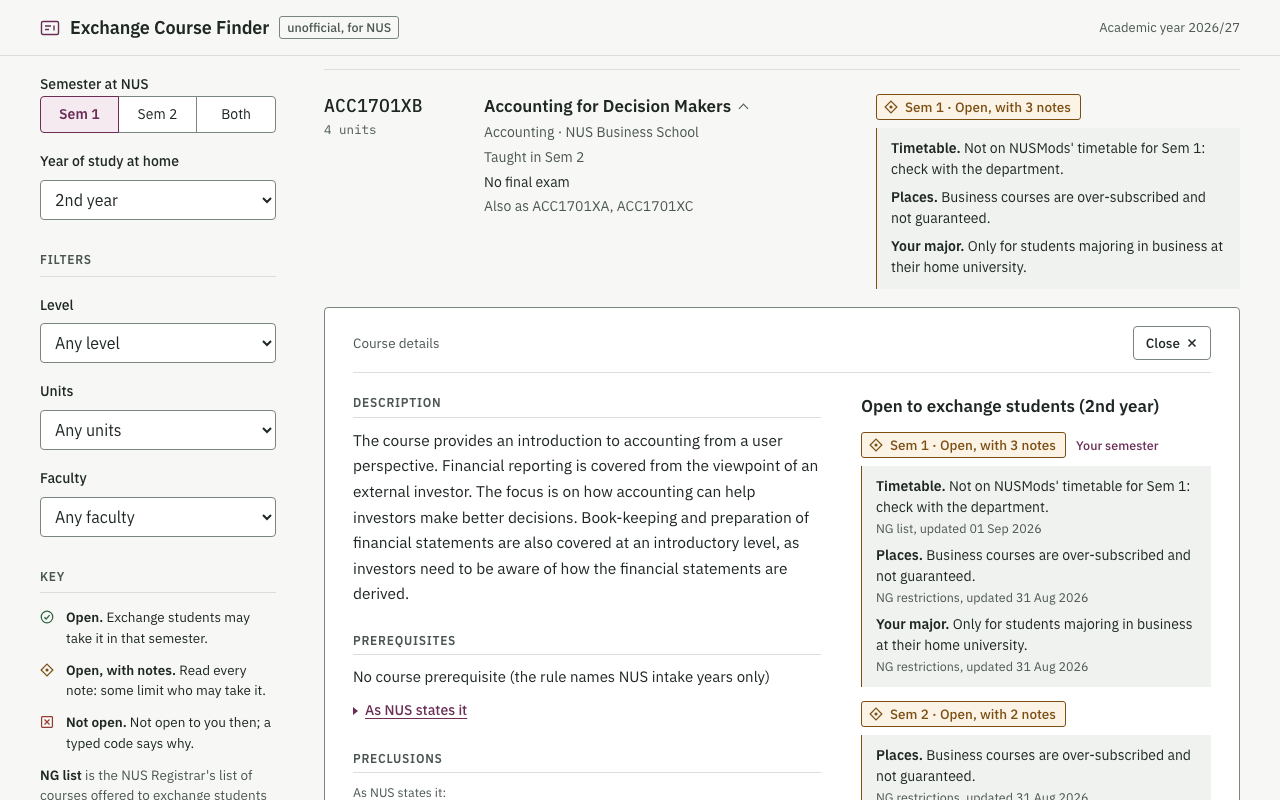
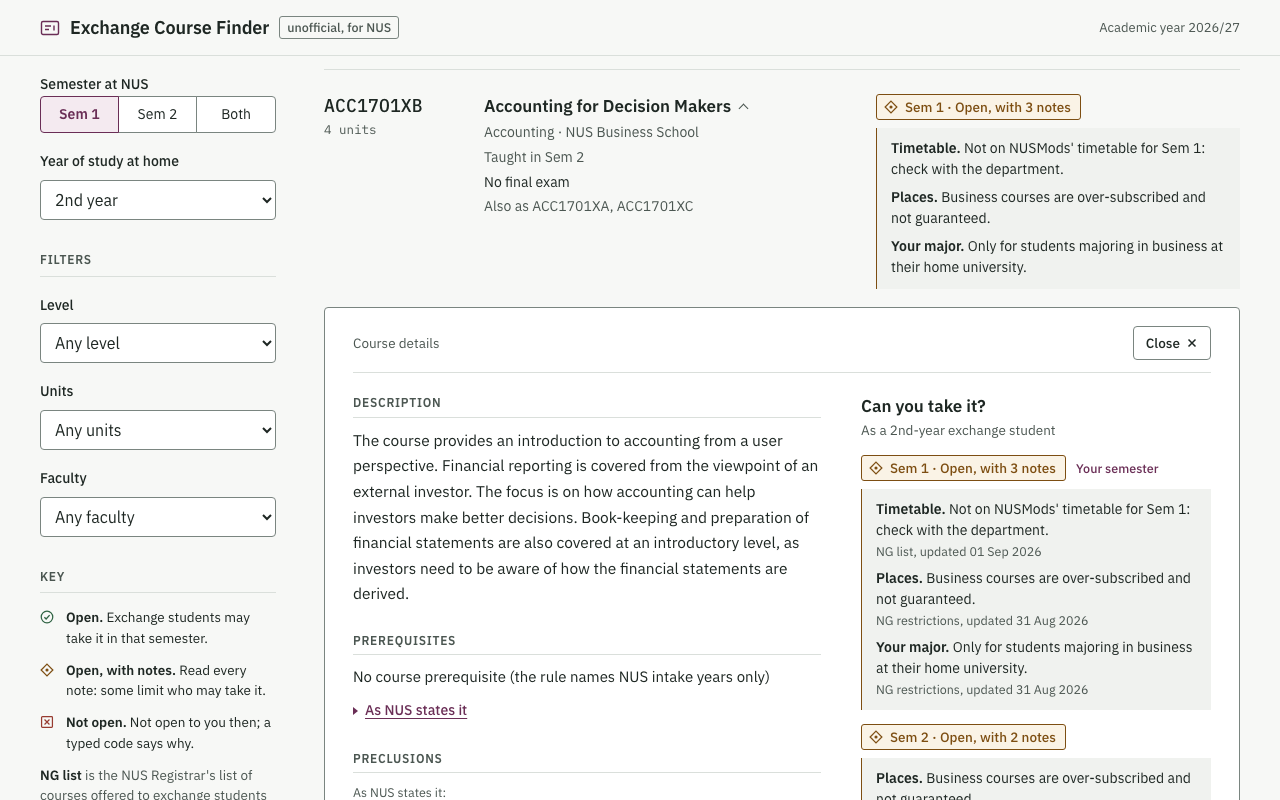
fix(ui): review fixes for direction D (Phase 5 5D)
- In exchange mode a no-results answer never offers removing the semester:
  only real filters count as the next step.
- The first screen goes to one column below 900px and its tiles wrap, so no
  width between a phone and a desktop scrolls sideways.
- Focus stays on a control when the one it was on goes away (a special
  term changed to Sem 1 in exchange mode; the filters dialog closed by
  widening the window).
- A link with any state never paints the first screen before the scripts
  run; the modules are preloaded.
- Options a link adds are labelled as the chips are ("Level 7000").
- The sheet asks "Can you take it?", and phone chips wrap from the left
  edge, as in the mockup.

Changed region(s): [[0.6562, 0.5, 0.9375, 1.0]]

diff --git a/test/ui/mobile.spec.js b/test/ui/mobile.spec.js
@@ -133,6 +133,60 @@ test('[V1] no results with filters on names the next step: remove a filter', asy
   await expect(page.getByRole('button', { name: 'Remove filter: Level 6000' })).toBeVisible();
 });
 
+test('[V1] in exchange mode the next step is never to drop the set-up: only real filters are offered', async ({ page }) => {
+  const empty = { query: 'basket weaving', count: 0, results: [], interpreted: {}, hiddenPins: [], notOffered: [] };
+  await page.route('**/search?**', (route) => route.fulfill({ json: { ...empty, filters: { sem: 1, ng: true, study: 'ug2' } } }));
+  await page.goto('/?q=basket+weaving&sem=1&ng=1&study=ug2');
+  await expect(page.locator('#status')).toHaveText('No courses match “basket weaving”.Try other words for the topic, or fewer of them.');
+  await page.unroute('**/search?**');
+  await page.route('**/search?**', (route) => route.fulfill({ json: { ...empty, filters: { sem: 1, level: 2, ng: true, study: 'ug2' } } }));
+  await page.goto('/?q=basket+weaving&sem=1&level=2&ng=1&study=ug2');
+  await expect(page.locator('#status')).toContainText('Remove a filter above to see more courses');
+});
+
+test('[V1] an option a link adds is labelled as the chips are: "Level 7000", "3 units"', async ({ page }) => {
+  await page.setViewportSize({ width: 1280, height: 800 });
+  await page.goto('/?q=design&level=7&credits=3');
+  await expect(page.locator('#level option:checked')).toHaveText('Level 7000');
+  await expect(page.locator('#credits option:checked')).toHaveText('3 units');
+  await expect(page.locator('#chips .chip')).toHaveText(['Level 7000', '3 units']);
+});
+
+test('no width between a phone and a desktop scrolls sideways: the first screen, results and an open detail', async ({ page }) => {
+  for (const width of [320, 390, 560, 641, 667, 700, 760, 900, 1040, 1100]) {
+    await page.setViewportSize({ width, height: 800 });
+    for (const path of ['/', '/?q=introductory+accounting&ng=1&study=ug2', '/?q=ACC1701XB&open=ACC1701XB', '/?q=ACC1701XB&sem=1&ng=1&study=ug2&open=ACC1701XB']) {
+      await page.goto(path);
+      if (path.includes('open=')) await expect(page.locator('#results .detail-close')).toBeVisible();
+      const over = await page.evaluate(() => document.documentElement.scrollWidth - window.innerWidth);
+      expect(over, `${width}px ${path}`).toBeLessThanOrEqual(0);
+    }
+  }
+});
+
+test('focus stays on a control when the one it was on goes away: a special term changed to Sem 1, and the dialog closed by widening', async ({ page }) => {
+  await page.goto('/?q=networks&sem=3&ng=1&study=ug2');
+  await page.getByRole('button', { name: /^Filters/ }).click();
+  await expect(page.locator('#sem')).toBeVisible();
+  await page.locator('#sem').selectOption('1');
+  await expect.poll(() => query(page)).toBe('q=networks&sem=1&ng=1&study=ug2');
+  await expect(page.locator('#sem')).toBeHidden();
+  await expect(page.getByRole('radio', { name: 'Sem 1', exact: true })).toBeFocused();
+  await page.locator('#study').focus();
+  await page.setViewportSize({ width: 1280, height: 800 });
+  await expect(page.getByRole('dialog')).toBeHidden();
+  await expect(page.locator('#study')).toBeFocused();
+});
+
+test('a link with any state never shows the first screen, even before the scripts run', async ({ page }) => {
+  await page.route('**/app.js', async (route) => { await new Promise((r) => setTimeout(r, 1500)); await route.continue(); });
+  await page.goto('/?q=introductory+accounting&sem=1&ng=1&study=ug2', { waitUntil: 'commit' });
+  await page.locator('#q').waitFor({ state: 'attached' });
+  await expect(page.locator('#setup')).toBeHidden();
+  await expect(page.locator('#results > li.card').first()).toBeVisible({ timeout: 10_000 });
+  await expect(page.locator('#setup')).toBeHidden();
+});
+
 test('at 1280 the rail is beside the results and there is no Filters button', async ({ page }) => {
   await page.setViewportSize({ width: 1280, height: 800 });
   await page.goto('/?q=networks&ng=1&study=ug2&sem=1');

diff --git a/public/styles.css b/public/styles.css
@@ -74,6 +74,9 @@
 h1, h2, h3, h4, b, strong { font-weight: 600; }
 * { box-sizing: border-box; }
 [hidden] { display: none !important; }
+html[data-view="results"] #setup { display: none; }
+#layout { display: none; }
+html[data-view="results"] #layout, .app[data-view="results"] #layout { display: grid; }
 html { -webkit-text-size-adjust: 100%; text-size-adjust: 100%; }
 body { margin: 0; background: var(--ground); color: var(--ink); font: 400 var(--t-body)/1.55 var(--f-sans); -webkit-font-smoothing: antialiased; }
 .app { min-height: 100vh; display: flex; flex-direction: column; }
@@ -156,7 +159,7 @@ button.chip { cursor: pointer; }
 .tile, .pill { position: relative; display: block; border: 1px solid var(--edge); border-radius: 4px; background: var(--surface); cursor: pointer; }
 .tile { padding: 12px 14px; }
 .tile input, .pill input, .seg-opt input { position: absolute; opacity: 0; inset: 0; width: 100%; height: 100%; margin: 0; cursor: pointer; }
-.tile b { display: block; white-space: nowrap; font-size: var(--t-input); font-weight: 600; line-height: 1.3; }
+.tile b { display: block; font-size: var(--t-input); font-weight: 600; line-height: 1.3; }
 .tile small { display: block; font: 400 12.5px/1.5 var(--f-mono); color: var(--ink-2); margin-top: 2px; }
 .tick { display: none; color: var(--accent); }
 .tile:has(input:checked), .pill:has(input:checked) { background: var(--accent-tint); border-color: var(--accent); }
@@ -288,6 +291,7 @@ details[open] > summary::before { transform: rotate(90deg); }
 .exam-list { display: grid; gap: 4px; font-family: var(--f-mono); font-size: 14px; }
 .wl-total { font-size: var(--t-body-s); }
 .avail h3.big { font-size: var(--t-title); font-weight: 600; line-height: 1.35; }
+.avail .for { font-size: var(--t-small); color: var(--ink-2); margin-top: 2px; }
 .semblock .row { display: flex; align-items: center; gap: 10px; flex-wrap: wrap; }
 .yours { font-size: 12.5px; font-weight: 500; color: var(--accent); }
 .boxcheck { display: flex; gap: 9px; align-items: flex-start; font-weight: 600; border: 1px solid var(--edge); border-radius: 4px; padding: 10px 14px; }
@@ -340,6 +344,12 @@ details[open] > summary::before { transform: rotate(90deg); }
   .sheet-side, .sheet-main { grid-column: auto; grid-row: auto; }
   .hdr-r { display: none; }
   .setup { column-gap: 40px; padding: 40px 28px; }
+  .entry > *, .sheet-grid > * { min-width: 0; }
+  .meta, .variants { overflow-wrap: anywhere; }
+}
+@media (max-width: 900px) {
+  .setup { grid-template-columns: minmax(0, 1fr); grid-template-areas: "intro" "form" "sources"; row-gap: 32px; }
+  .setup-title { max-width: none; }
 }
 
 /* ===== Phone (F10): one search bar; the rail is the Filters dialog ===== */
@@ -372,9 +382,10 @@ details[open] > summary::before { transform: rotate(90deg); }
   .field { height: 42px; padding: 0 12px; }
   .bar .field { height: 42px; }
   .bar .btn { min-height: 42px; padding: 0 16px; }
-  .filterrow, .filterrow:not(:has(li)) { display: flex; flex-wrap: nowrap; align-items: flex-start; margin-top: 8px; gap: 6px; }
-  .chips { gap: 6px; }
-  .filters-btn { flex: none; }
+  /* One inline flow, so a second line of chips starts at the left edge, under "Filters". */
+  .filterrow, .filterrow:not(:has(li)) { display: block; margin-top: 8px; }
+  .chips { display: inline; }
+  .chips li, .filters-btn { display: inline-flex; vertical-align: top; margin: 0 6px 6px 0; }
   .filters-btn { display: inline-flex; min-height: 30px; padding: 0 10px; font-size: var(--t-small); border-radius: 15px; }
   .chip { font-size: 13px; padding: 0 7px 0 10px; }
   .chip-fixed { padding: 0 10px; }
@@ -401,4 +412,3 @@ details[open] > summary::before { transform: rotate(90deg); }
   .desc { font-size: var(--t-body); line-height: 1.6; }
   .exchange-table { font-size: 12.5px; }
 }
-@media (min-width: 641px) { .filters-dialog { display: none; } }

diff --git a/public/app.js b/public/app.js
@@ -141,8 +141,8 @@ let current = parseState(new URLSearchParams(location.search));
 function applyToForm(s) {
   els.q.value = s.q;
   selectValue(els.sem, s.sem);
-  selectValue(els.level, s.level, `${s.level}000`);
-  selectValue(els.credits, s.credits);
+  selectValue(els.level, s.level, levelLabel(s.level));
+  selectValue(els.credits, s.credits, unitsLabel(s.credits));
   selectValue(els.faculty, s.faculty);
   els.ng.checked = s.ng;
   if (s.study) els.study.value = s.study;
@@ -161,6 +161,8 @@ function applyToForm(s) {
  * results layout stays for the page's life, Back to an empty entry included.
  */
 let leftSetup = location.search !== '';
+// index.html's inline line chose the same view before this module loaded.
+delete document.documentElement.dataset.view;
 
 /** @param {State} s */
 function syncView(s) {
@@ -206,8 +208,12 @@ function renderChips(s) {
   els.filtersBtnText.textContent = `Filters (${list.length})`;
 }
 
-/** How many chips the student could remove: the next step a no-results answer names. */
-const removableFilters = () => chipList(current).filter((c) => c.removable && c.key !== 'ng').length;
+/**
+ * How many chips the student could remove to see more: the next step a
+ * no-results answer names. Never the exchange set-up (its semester, or
+ * exchange mode itself): that is eligibility, not a preference.
+ */
+const removableFilters = () => chipList(current).filter((c) => c.removable && c.key !== 'ng' && !(current.ng && c.key === 'sem')).length;
 
 /** @returns {State} what the controls show; ignore, open, pick and alt are the URL's */
 function readForm() {
@@ -452,6 +458,9 @@ for (const el of [els.sem, els.level, els.credits, els.faculty, els.ng, els.stud
     if (el === els.study) saveStudy(els.study.value);
     syncExchange();
     act({ type: 'settings', form: readForm() });
+    // A special term changed to Sem 1 or 2 in exchange mode: the select gives
+    // way to the segment, so focus moves to its choice instead of the page.
+    if (el === els.sem && els.semWrap.hidden) radios('xsem').find((r) => r.checked)?.focus();
   });
 }
 // The rail's semester segment sets #sem, which every mode reads.
@@ -516,9 +525,18 @@ els.filtersBtn.addEventListener('click', () => {
   /** @type {HTMLElement | null} */ (els.panel.querySelector('input, select'))?.focus();
 });
 els.filtersDone.addEventListener('click', () => els.dialog.close());
+/** The control focused in the dialog when a resize closed it (the browser moves focus before `close`). */
+/** @type {Element | null} */
+let refocus = null;
 els.dialog.addEventListener('close', () => {
+  const was = refocus ?? document.activeElement;
+  refocus = null;
   rail.prepend(els.panel);
-  if (els.filtersBtn.isConnected && getComputedStyle(els.filtersBtn).display !== 'none') els.filtersBtn.focus();
+  // Back to the button; or, widened past the phone layout (no button), to the
+  // control that had focus, now in the rail.
+  if (getComputedStyle(els.filtersBtn).display !== 'none') els.filtersBtn.focus();
+  else if (was instanceof HTMLElement && els.panel.contains(was)) was.focus();
+  else els.q.focus();
 });
 /**
  * The dialog's controls in Tab order: one stop per radio group (its checked
@@ -552,7 +570,11 @@ els.dialog.addEventListener('keydown', (e) => {
   stops[next].focus();
 });
 // Widened past the phone layout with the dialog open: the rail is back in view.
-matchMedia('(min-width: 641px)').addEventListener('change', (e) => { if (e.matches && els.dialog.open) els.dialog.close(); });
+matchMedia('(min-width: 641px)').addEventListener('change', (e) => {
+  if (!e.matches || !els.dialog.open) return;
+  refocus = document.activeElement;
+  els.dialog.close();
+});
 
 document.addEventListener('keydown', (e) => {
   if (isCloseEscape(e) && current.open && !els.dialog.open) act({ type: 'close' });

diff --git a/public/detail.js b/public/detail.js
@@ -110,6 +110,9 @@ function semBlock(e, sem, mine, sources) {
       ...reasons.map((r) => noteItem(r, noteText(r, sem), h('span', { class: 'src' }, sourceNote(r.id, sources)))))) : null);
 }
 
+/** @type {Readonly<Record<string, string>>} */
+const STUDY_AS = Object.freeze({ ug1: '1st-year', ug2: '2nd-year', ug3: '3rd-year', ug4: '4th-year (or later)', grad: 'graduate' });
+
 /**
  * Exchange availability: in exchange mode Sem 1 and Sem 2 at the chosen year;
  * outside it, a table for every year.
@@ -134,9 +137,9 @@ function exchangeSection(raw, ctx) {
     '.');
   const check = h('p', { class: 'check-nus boxcheck' }, icon('check'), h('span', null, 'Check with NUS before you register.'));
   if (study) {
-    const label = STUDIES.find((o) => o.value === study)?.label ?? study;
     const chosen = ctx.filters.sem === 1 || ctx.filters.sem === 2 ? ctx.filters.sem : 0;
-    return h('section', { class: 'detail-part avail' }, h('h3', { class: 'big' }, `Open to exchange students (${label})`),
+    return h('section', { class: 'detail-part avail' },
+      h('div', null, h('h3', { class: 'big' }, 'Can you take it?'), h('p', { class: 'for' }, `As a ${STUDY_AS[study] ?? study} exchange student`)),
       ...[1, 2].map((sem) => semBlock(at(sem, study), sem, sem === chosen, sources)),
       check, sourcesLine);
   }

diff --git a/public/index.html b/public/index.html
@@ -9,6 +9,12 @@
 <link rel="preload" href="/fonts/IBMPlexMono-Medium-Latin1.woff2" as="font" type="font/woff2" crossorigin>
 <link rel="stylesheet" href="/styles.css">
 <script type="module" src="/app.js"></script>
+<link rel="modulepreload" href="/api.js"><link rel="modulepreload" href="/detail.js"><link rel="modulepreload" href="/dom.js">
+<link rel="modulepreload" href="/explain.js"><link rel="modulepreload" href="/format.js"><link rel="modulepreload" href="/icons.js">
+<link rel="modulepreload" href="/keys.js"><link rel="modulepreload" href="/messages.js"><link rel="modulepreload" href="/nav.js">
+<link rel="modulepreload" href="/render.js"><link rel="modulepreload" href="/state.js">
+<!-- Until app.js runs: a link with any state shows the results layout, not the first screen. -->
+<script>if (location.search) document.documentElement.dataset.view = 'results';</script>
 </head>
 <body>
 <div class="app" id="app" data-view="setup">

diff --git a/test/ui/detail.spec.js b/test/ui/detail.spec.js
@@ -99,7 +99,8 @@ test('[SC2] the detail: description, prerequisites as NUS states them with codes
   await expect(d.locator('.exam-list li')).toHaveText(['Sem 1: Thu 26 Nov 2026, 5:00 pm, 2 h', 'Sem 2: Thu 29 Apr 2027, 9:00 am, 2 h']);
   await expect(d.getByRole('heading', { name: 'Workload' })).toBeVisible();
   await expect(d).toContainText('10 hours a week: 2 lecture, 1 tutorial, 4 project, 3 preparation');
-  await expect(d.getByRole('heading', { name: 'Open to exchange students (2nd year)' })).toBeVisible();
+  await expect(d.getByRole('heading', { name: 'Can you take it?' })).toBeVisible();
+  await expect(d.locator('.avail .for')).toHaveText('As a 2nd-year exchange student');
   await expect(d.locator('.exchange-sem-block')).toHaveText([
     /^Sem 1 · Not open to exchange studentsOffered to exchange students only in Sem 2\.NG list, updated 01 Sep 2026$/,
     /^Sem 2 · Open to exchange studentsYour semester$/,
